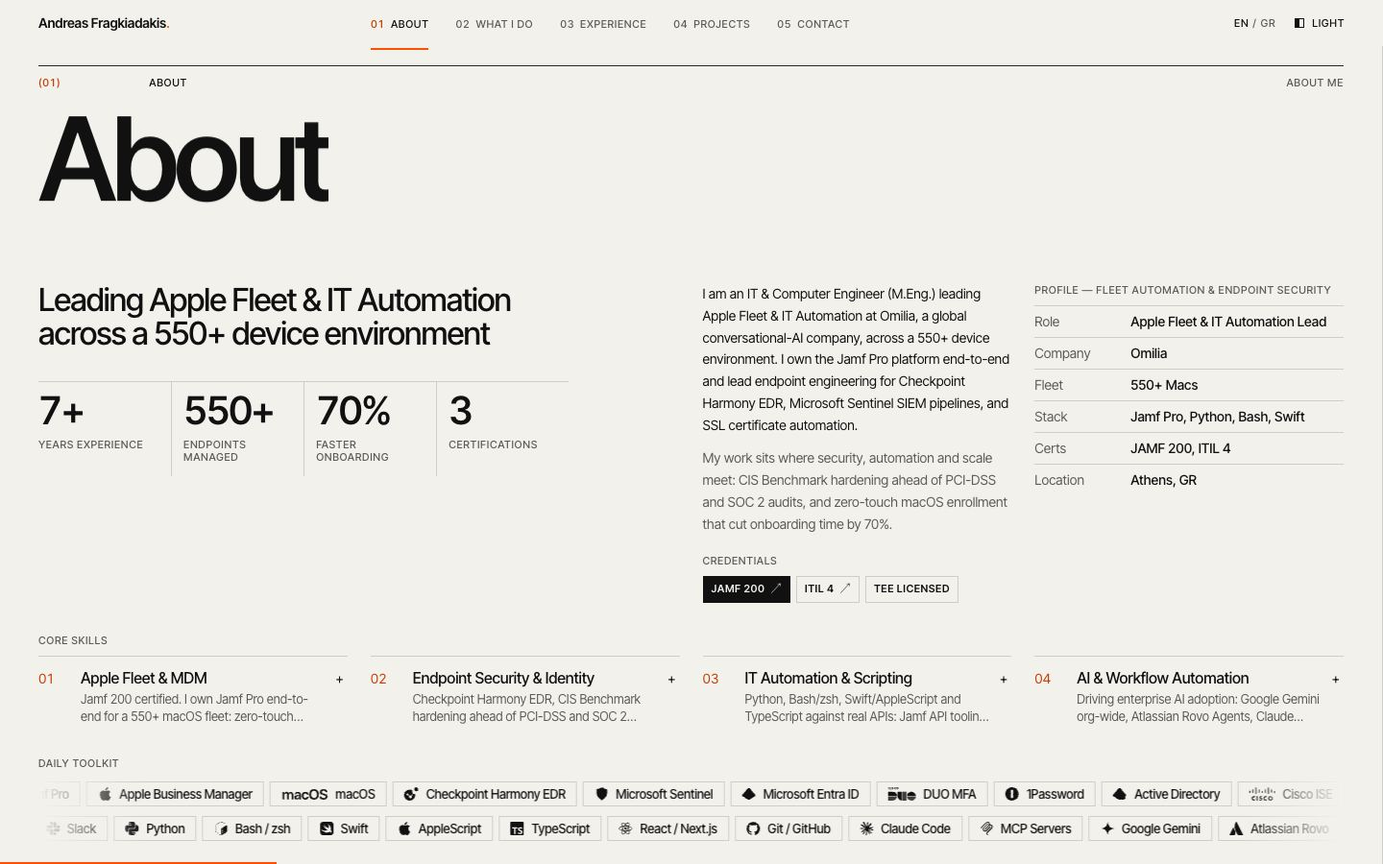
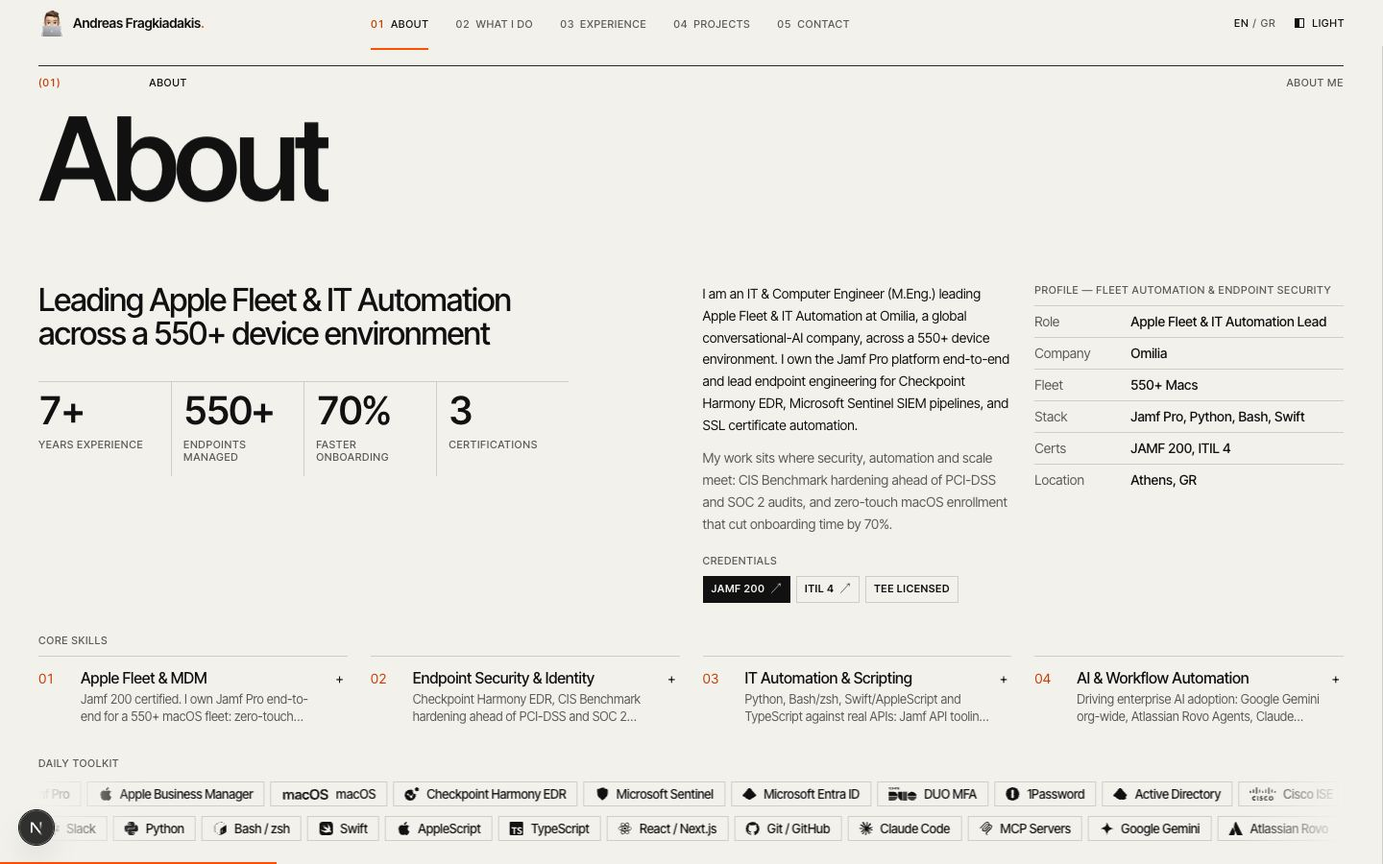
Swiss Editorial: TikTok Sans for Greek, memoji mark, Greek copy fixes
Inter Tight's Greek (hooked iota) collided at display tracking and read
softer than the Latin. A Greek-only TikTok Sans face (OFL, variable
opsz/wght, self-hosted via next/font/local, unicode-range U+0370-03FF)
now sits ahead of Inter Tight, so Greek letters use a straight
neo-grotesk while Latin, digits and punctuation stay Inter Tight.

- Nav wordmark leads with the memoji technologist as a byline mark
- Restore tonos on mixed-case Greek strings; About says 550 devices
- STYLE.md typography + Round 4 notes, CHANGELOG, refreshed previews

diff --git a/andreas-technology-v3/src/data/content.ts b/andreas-technology-v3/src/data/content.ts
@@ -819,12 +819,12 @@ export const content: Record<'en' | 'gr', Content> = {
             tagline: "Επικεφαλής Apple Fleet & IT Automation σε περιβάλλον 550+ συσκευών",
             readMore: "Διαβάστε περισσότερα",
             showLess: "Λιγότερα",
-            currentFocus: "Τρεχουσα Εστιαση",
+            currentFocus: "Τρέχουσα εστίαση",
             currentFocusDetail: "Fleet Automation & Endpoint Security",
-            statsLabels: ["Χρονια Εμπειριας", "Συσκευες υπο Διαχειριση", "Ταχυτερο Onboarding", "Πιστοποιησεις"],
-            credentialsLabel: "Πιστοποιησεις",
+            statsLabels: ["Χρόνια εμπειρίας", "Συσκευές υπό διαχείριση", "Ταχύτερο onboarding", "Πιστοποιήσεις"],
+            credentialsLabel: "Πιστοποιήσεις",
             description: [
-                "Είμαι Μηχανικός Πληροφορικής και Υπολογιστών (M.Eng.) και ηγούμαι του τομέα Apple Fleet & IT Automation στην Omilia, μια παγκόσμια εταιρεία conversational AI, σε περιβάλλον άνω των 400 συσκευών. Διαχειρίζομαι εξ ολοκλήρου την πλατφόρμα Jamf Pro και ηγούμαι του endpoint engineering για Checkpoint Harmony EDR, pipelines Microsoft Sentinel SIEM και αυτοματοποίηση πιστοποιητικών SSL.",
+                "Είμαι Μηχανικός Πληροφορικής και Υπολογιστών (M.Eng.) και ηγούμαι του τομέα Apple Fleet & IT Automation στην Omilia, μια παγκόσμια εταιρεία conversational AI, σε περιβάλλον άνω των 550 συσκευών. Διαχειρίζομαι εξ ολοκλήρου την πλατφόρμα Jamf Pro και ηγούμαι του endpoint engineering για Checkpoint Harmony EDR, pipelines Microsoft Sentinel SIEM και αυτοματοποίηση πιστοποιητικών SSL.",
                 "Η δουλειά μου βρίσκεται στο σημείο όπου συναντώνται η ασφάλεια, ο αυτοματισμός και η κλίμακα: θωράκιση κατά CIS Benchmarks ενόψει ελέγχων PCI-DSS και SOC 2, και zero-touch enrollment για macOS που μείωσε τον χρόνο onboarding κατά 70%.",
                 "Παράλληλα οδηγώ την υιοθέτηση AI σε εταιρικό επίπεδο — Google Gemini, Atlassian Rovo Agents και ένα AI pipeline διαλογής αιτημάτων που μείωσε τον μέσο χρόνο triage σε 350+ tickets ετησίως.",
                 "Jamf Certified Tech (Jamf 200) | Αδειούχος Μηχανικός Πληροφορικής (ΤΕΕ) | Πιστοποίηση ITIL 4 | Με έδρα την Αθήνα | Αγγλικά (C2), Ελληνικά (Μητρική), Γερμανικά (B2)"
@@ -844,32 +844,32 @@ export const content: Record<'en' | 'gr', Content> = {
                 "INFRASTRUCTURE AUTOMATION ENGINEER",
                 "AI AUTOMATION SPECIALIST"
             ],
-            viewWork: "Δειτε τη Δουλεια μου",
-            getInTouch: "Επικοινωνηστε μαζι μου",
+            viewWork: "Δείτε τη δουλειά μου",
+            getInTouch: "Επικοινωνήστε μαζί μου",
             scroll: "ΣΚΡΟΛΑΡΕΤΕ ΓΙΑ ΠΛΟΗΓΗΣΗ"
         },
 
         contact: {
             title: "ΕΠΙΚΟΙΝΩΝΙΑ",
             subtitle: "ΕΛΑΤΕ ΣΕ ΕΠΑΦΗ ΜΑΖΙ ΜΟΥ",
-            infoTitle: "Στοιχεια Επικοινωνιας",
-            socialTitle: "Βρειτε με στα social",
-            opportunitiesTitle: "Διαθεσιμος για νεες προκλησεις",
+            infoTitle: "Στοιχεία επικοινωνίας",
+            socialTitle: "Βρείτε με στα social",
+            opportunitiesTitle: "Διαθέσιμος για νέες προκλήσεις",
             opportunitiesDescription: "Freelance projects ή ενδιαφέρουσες συνεργασίες. Ας δημιουργήσουμε κάτι μοναδικό μαζί.",
-            sendMessage: "Αποστολη Μηνυματος",
-            downloadResume: "Ληψη Βιογραφικου",
+            sendMessage: "Αποστολή μηνύματος",
+            downloadResume: "Λήψη βιογραφικού",
             emailLabel: "Email",
-            locationLabel: "Τοποθεσια",
-            localTimeLabel: "Τοπικη ωρα",
-            copyEmail: "Αντιγραφη",
-            copied: "Αντιγραφηκε",
-            copyFailed: "Αποτυχια"
+            locationLabel: "Τοποθεσία",
+            localTimeLabel: "Τοπική ώρα",
+            copyEmail: "Αντιγραφή",
+            copied: "Αντιγράφηκε",
+            copyFailed: "Αποτυχία"
         },
 
         cursor: {
-            view: "Δειτε",
-            verify: "Ελεγχος",
-            open: "Ανοιγμα"
+            view: "Δείτε",
+            verify: "Έλεγχος",
+            open: "Άνοιγμα"
         },
 
         skillsTitle: "ΒΑΣΙΚΕΣ ΔΕΞΙΟΤΗΤΕΣ",
@@ -898,13 +898,13 @@ export const content: Record<'en' | 'gr', Content> = {
 
         servicesTitle: "ΥΠΗΡΕΣΙΕΣ",
         servicesSubtitle: "// ΕΞΕΙΔΙΚΕΥΣΗ & ΔΕΞΙΟΤΗΤΕΣ",
-        servicesCta: "Εχετε ενα συγκεκριμενο project στο μυαλο σας;",
-        servicesCtaButton: "Ας Μιλησουμε",
-        servicesLabels: { highlights: "Στην πραξη", toolkit: "Εργαλεια", details: "Λεπτομερειες", tools: "εργαλεια" },
+        servicesCta: "Έχετε ένα συγκεκριμένο project στο μυαλό σας;",
+        servicesCtaButton: "Ας μιλήσουμε",
+        servicesLabels: { highlights: "Στην πράξη", toolkit: "Εργαλεία", details: "Λεπτομέρειες", tools: "εργαλεία" },
         services: [
             {
                 icon: "fas fa-shield-halved",
-                title: "Ασφαλεια Τερματικων & Συμμορφωση",
+                title: "Ασφάλεια τερματικών & συμμόρφωση",
                 description: "Θωράκιση στόλου συσκευών απέναντι σε πραγματικές απειλές: εφαρμογή CIS Benchmarks, ανάπτυξη και μετάβαση EDR, διαχείριση κρυπτογράφησης δίσκων και ετοιμότητα για ελέγχους PCI-DSS και SOC 2.",
                 detail: "Ασφάλεια που αντέχει τόσο σε έλεγχο όσο και στην παραγωγή. Εφάρμοσα θωράκιση κατά CIS Benchmarks σε όλο τον στόλο πριν από ελέγχους PCI-DSS και SOC 2, ηγήθηκα της μετάβασης σε Checkpoint Harmony EDR και τροφοδοτώ το Microsoft Sentinel με telemetry τερματικών ώστε η ανίχνευση να έχει πραγματικό πλαίσιο.",
                 highlights: [
@@ -928,7 +928,7 @@ export const content: Record<'en' | 'gr', Content> = {
             },
             {
                 icon: "fas fa-gears",
-                title: "Αυτοματισμος IT & Scripting",
+                title: "Αυτοματισμός IT & Scripting",
                 description: "Μετατροπή χειροκίνητων εργασιών IT σε επαναλήψιμα συστήματα. Bash, Python και TypeScript πάνω σε πραγματικά APIs, με pipelines πιστοποιητικών και provisioning που εξαλείφουν την επαναλαμβανόμενη εργασία.",
                 detail: "Ό,τι γίνεται δύο φορές, γίνεται script. Γράφω Bash, Python, Swift και TypeScript πάνω σε πραγματικά APIs, από εργαλεία Jamf έως ένα κεντρικό pipeline που ανανεώνει πιστοποιητικά SSL για Cisco ISE, ESXi, Proxmox και HPE iLO χωρίς χειροκίνητα βήματα.",
                 highlights: [
@@ -964,7 +964,7 @@ export const content: Record<'en' | 'gr', Content> = {
             },
             {
                 icon: "fas fa-network-wired",
-                title: "Δικτυα & Υποδομες",
+                title: "Δίκτυα & υποδομές",
                 description: "Το επίπεδο πάνω στο οποίο στηρίζονται όλα — Cisco ISE, Active Directory, MFA και virtualization σε ESXi και Proxmox, με monitoring που εντοπίζει προβλήματα πριν τα αναφέρουν οι χρήστες.",
                 detail: "Η βάση πάνω στην οποία στηρίζονται όλα: έλεγχος πρόσβασης δικτύου με Cisco ISE, ταυτότητα σε Active Directory και Entra ID, και virtualization σε VMware ESXi και Proxmox — με MFA, πιστοποιητικά και monitoring σε τάξη γύρω τους.",
                 highlights: [
@@ -1126,28 +1126,28 @@ export const content: Record<'en' | 'gr', Content> = {
             subtitle: "ΕΠΙΛΕΓΜΕΝΑ ΕΡΓΑ",
             live: "Live",
             code: "Code",
-            githubCta: "Δειτε το πληρες Portfolio στο GitHub",
-            details: "Λεπτομερειες",
-            caseStudy: "Μελετη περιπτωσης",
-            roleLabel: "Ρολος",
-            highlightsLabel: "Βασικα Σημεια",
-            report: "Αναφορα",
-            publication: "Δημοσιευση",
-            close: "Κλεισιμο"
+            githubCta: "Δείτε το πλήρες portfolio στο GitHub",
+            details: "Λεπτομέρειες",
+            caseStudy: "Μελέτη περίπτωσης",
+            roleLabel: "Ρόλος",
+            highlightsLabel: "Βασικά σημεία",
+            report: "Αναφορά",
+            publication: "Δημοσίευση",
+            close: "Κλείσιμο"
         },
 
         cinematicEntry: {
             initializing: "> ΕΚΚΙΝΗΣΗ ΣΥΣΤΗΜΑΤΟΣ...",
             loading: "> ΦΟΡΤΩΣΗ ΑΡΧΕΙΩΝ...",
             ready: "> ΕΤΟΙΜΟ.",
-            enterSystem: "Εισοδος στο Συστημα",
-            skip: "Παραλειψη"
+            enterSystem: "Είσοδος στο σύστημα",
+            skip: "Παράλειψη"
         },
 
         projectsTitle: "PROJECTS",
         projects: [
             {
-                name: "Plano Plus - Επιγραφες & Οπτικη Ταυτοτητα",
+                name: "Plano Plus - Επιγραφές & Οπτική Ταυτότητα",
                 year: 2026,
                 tags: ["Next.js", "React", "TypeScript", "Tailwind CSS", "Framer Motion", "Resend"],
                 description: "Ιστοσελίδα στούντιο επιγραφών και οπτικής επικοινωνίας με Next.js App Router. Χαρακτηριστικά: light/dark theme, parallax effects, smooth scrolling, φόρμα επικοινωνίας με email integration, και σύγχρονο UI/UX. Εξυπηρετεί πελάτες σε όλη την Κρήτη με επαγγελματικές λύσεις επιγραφών και branding.",
@@ -1180,7 +1180,7 @@ export const content: Record<'en' | 'gr', Content> = {
                 imageFit: "cover"
             },
             {
-                name: "Προσωπικη Ιστοσελιδα Portfolio",
+                name: "Προσωπική Ιστοσελίδα Portfolio",
                 year: 2026,
                 tags: ["Next.js", "React", "TypeScript", "Framer Motion", "Canvas"],
                 description: "Σχεδίαση και υλοποίηση modern portfolio με horizontal scroll εμπειρία, διαδραστικό Canvas glitch effect, animations και υποστήριξη Dark/Light mode σε δύο γλώσσες.",
@@ -1247,7 +1247,7 @@ export const content: Record<'en' | 'gr', Content> = {
                 imageFit: "cover"
             },
             {
-                name: "HappyFox 🦊 - Εφαρμογη Ψυχικης Υγειας",
+                name: "HappyFox 🦊 - Εφαρμογή Ψυχικής Υγείας",
                 year: 2023,
                 tags: ["UI/UX Design", "Figma", "Team Project", "SRH Heidelberg"],
                 description: "Σχεδιασμός UI/UX για εφαρμογή ψυχικής υγείας με στόχο την προώθηση της συναισθηματικής ευεξίας. Υλοποιήθηκε στα πλαίσια μεταπτυχιακού μαθήματος.",
@@ -1264,7 +1264,7 @@ export const content: Record<'en' | 'gr', Content> = {
                 imageFit: "cover"
             },
             {
-                name: "Ιστοσελιδα Κεντρων Ξενων Γλωσσων Schiller",
+                name: "Ιστοσελίδα Κέντρων Ξένων Γλωσσών Schiller",
                 year: 2026,
                 tags: ["Wix", "Wix Studio", "Web Development", "Educational"],
                 description: "Ανάπτυξη ιστοσελίδας για τα εκπαιδευτικά κέντρα Schiller στο Ρέθυμνο. Παρουσίαση προγραμμάτων σπουδών Αγγλικών, Γερμανικών και Εκπαιδευτικής Ρομποτικής.",
@@ -1296,7 +1296,7 @@ export const content: Record<'en' | 'gr', Content> = {
                 imageFit: "cover"
             },
             {
-                name: "Ερευνα: LLMs & Ανθρωπινη Γνωση",
+                name: "Έρευνα: LLMs & Ανθρώπινη Γνώση",
                 year: 2024,
                 tags: ["Research", "Cognitive Science", "LLMs", "GPT-3", "Python"],
                 description: "Συγκριτική μελέτη απόδοσης GPT-3 και ανθρώπων στο 'False Belief Task'. Η έρευνα δημοσιεύθηκε στο περιοδικό Cognitive Science.",

diff --git a/andreas-technology-v3/src/app/layout.tsx b/andreas-technology-v3/src/app/layout.tsx
@@ -1,6 +1,7 @@
 
 import type { Metadata } from 'next'
 import { Inter_Tight } from 'next/font/google'
+import localFont from 'next/font/local'
 import { MotionConfig } from 'motion/react'
 import './globals.css'
 import { LanguageProvider } from '@/contexts/LanguageContext'
@@ -11,9 +12,31 @@ import { SpeedInsights } from '@vercel/speed-insights/next'
 import { SOCIAL_URLS, content } from '@/data/content'
 
 const interTight = Inter_Tight({
-    subsets: ['latin', 'greek'],
+    subsets: ['latin'],
     display: 'swap',
     variable: '--font-inter-tight',
+})
+
+/*
+ * Greek companion to Inter Tight. Inter Tight's own Greek has a hooked iota that
+ * collides with its neighbours at display tracking (κια, τικ) and reads softer than
+ * the Latin. TikTok Sans Greek (OFL, variable opsz 12–36 · wght 300–900) is a straight
+ * neo-grotesk that matches Inter Tight's colour and x-height, so this face covers
+ * only the Greek block and every Latin glyph, digit and punctuation mark still comes
+ * from Inter Tight. No size-adjusted fallback: a local fallback declared here would
+ * sit in front of Inter Tight in the stack and catch the Latin.
+ */
+const tiktokGreek = localFont({
+    src: './fonts/TikTokSans-Greek.woff2',
+    weight: '300 900',
+    style: 'normal',
+    display: 'swap',
+    variable: '--font-greek',
+    adjustFontFallback: false,
+    fallback: [],
+    declarations: [
+        { prop: 'unicode-range', value: 'U+0370-0377, U+037A-037F, U+0384-038A, U+038C, U+038E-03A1, U+03A3-03FF' },
+    ],
 })
 
 const SITE_URL = 'https://andreas.technology'
@@ -74,7 +97,7 @@ export default function RootLayout({
     children: React.ReactNode
 }) {
     return (
-        <html lang="en" className={interTight.variable} suppressHydrationWarning>
+        <html lang="en" className={`${interTight.variable} ${tiktokGreek.variable}`} suppressHydrationWarning>
             <head>
                 <meta name="theme-color" content="#0E0E0E" media="(prefers-color-scheme: dark)" />
                 <meta name="theme-color" content="#F2F1EC" media="(prefers-color-scheme: light)" />

diff --git a/andreas-technology-v3/src/components/dom/Navigation.tsx b/andreas-technology-v3/src/components/dom/Navigation.tsx
@@ -4,6 +4,7 @@ import { useLanguage } from '@/contexts/LanguageContext'
 import { useContent } from '@/hooks/useContent'
 import { useState, useEffect } from 'react'
 import { motion } from 'motion/react'
+import Image from 'next/image'
 import { scrollToSection as smoothScrollToSection } from '@/utils/smooth-scroll'
 import { SECTION_IDS, SECTION_STEPS } from '@/data/sections'
 import ThemeToggle from '@/components/ui/ThemeToggle'
@@ -86,10 +87,22 @@ export default function Navigation() {
                     type="button"
                     onClick={() => scrollToSection('hero', 0)}
                     aria-label={`${t.editorial.firstName} ${t.editorial.lastName} — ${t.nav.home}`}
-                    className="md:col-span-3 justify-self-start text-sm font-semibold tracking-[-0.01em] hover:text-[var(--accent-ink)] transition-colors"
+                    className="md:col-span-3 justify-self-start inline-flex items-center gap-2 text-sm font-semibold tracking-[-0.01em] hover:text-[var(--accent-ink)] transition-colors"
                 >
-                    {t.editorial.firstName} {t.editorial.lastName}
+                    {/* The memoji is the mark: cropped to the head and laptop, like a byline portrait. */}
+                    <span className="relative block size-7 shrink-0 overflow-hidden" aria-hidden="true">
+                        <Image
+                            src="/favicons/android-chrome-512x512.png"
+                            alt="Andreas Fragkiadakis"
+                            width={64}
+                            height={64}
+                            className="absolute inset-0 size-full object-cover object-bottom scale-[1.15] origin-bottom"
+                        />
+                    </span>
+                    <span>
+                        {t.editorial.firstName} {t.editorial.lastName}
                     <span className="text-[var(--accent)]" aria-hidden="true">.</span>
+                    </span>
                 </button>
 
                 {/* Desktop index */}

diff --git a/andreas-technology-v3/src/app/globals.css b/andreas-technology-v3/src/app/globals.css
@@ -22,7 +22,9 @@
   --accent-ink: #C23A00;
   --row-hover: rgba(17, 17, 17, 0.045);
 
-  --font-display: var(--font-inter-tight), "Helvetica Neue", Helvetica, Arial, sans-serif;
+  /* Greek-only face first (unicode-range), so Greek letters take TikTok Sans and
+     everything else falls through to Inter Tight. See layout.tsx. */
+  --font-display: var(--font-greek), var(--font-inter-tight), "Helvetica Neue", Helvetica, Arial, sans-serif;
 
   /*
    * Height of the fixed desktop navigation. Panels reserve this at the top so

diff --git a/STYLE.md b/STYLE.md
@@ -4,7 +4,7 @@
 
 ## Concept
 
-The portfolio is set like a printed index. It uses warm paper and near-black ink, one grotesk (Inter Tight), a strict 12-column grid, and 1px rules in place of cards. The name is set very large at the bottom left of the hero. Every other section is a numbered spread: "(01) About", "(02) What I do", and so on. Experience and projects read as index tables. International orange is the only colour, used for index numbers, active states and the full stop after the name.
+The portfolio is set like a printed index. It uses warm paper and near-black ink, one grotesk (Inter Tight, with TikTok Sans for Greek letters only), a strict 12-column grid, and 1px rules in place of cards. The name is set very large at the bottom left of the hero. Every other section is a numbered spread: "(01) About", "(02) What I do", and so on. Experience and projects read as index tables. International orange is the only colour, used for index numbers, active states and the full stop after the name.
 
 ## Inspirations
 
@@ -46,7 +46,11 @@ Pure `#FF4F00` on paper is only about 2.9 : 1, which fails even the large-text t
 
 ### Type
 
-- **Family:** Inter Tight (loaded with `next/font/google`, subsets `latin` and `greek`, variable weight), exposed as `--font-inter-tight` and set as Tailwind's `font-sans`. There is no monospace anywhere; every former `font-mono` label is now a sans meta label.
+- **Family:** Inter Tight for Latin (loaded with `next/font/google`, subset `latin`, variable weight), exposed as `--font-inter-tight`. There is no monospace anywhere; every former `font-mono` label is now a sans meta label.
+- **Greek:** TikTok Sans Greek (OFL; variable `opsz` 12–36 and `wght` 300–900; 18 KB). It is self-hosted as `src/app/fonts/TikTokSans-Greek.woff2` through `next/font/local`, with its licence alongside, and exposed as `--font-greek`. The face declares a Greek-only `unicode-range` (U+0370–03FF) and sits first in the stack: `--font-display: var(--font-greek), var(--font-inter-tight), …`. Greek letters therefore come from TikTok Sans, while every Latin letter, digit and punctuation mark (including the orange full stop) still comes from Inter Tight. `adjustFontFallback: false` is deliberate: a size-adjusted local fallback for the Greek face would sit in front of Inter Tight and catch the Latin. Optical size is automatic, so the name and titles use the display cut (opsz 36) and body text the text cut.
+  - *Why:* Inter Tight's own Greek has a hooked iota. At display tracking (−0.045 to −0.055em) it collides with the next letter ("κια" in Φραγκιαδάκης, "τικ" in Σχετικά), and its lowercase reads softer and lighter than the Latin. TikTok Sans Greek is a straight neo-grotesk: a plain-stem iota, Helvetica-like α/ρ/ς, a steep tonos, and colour and x-height that match Inter Tight at the same weight. Mixed lines such as "Επικεφαλής Apple Fleet & IT Automation" read as one voice.
+  - *Compared* (`style-preview/states/greek-font-finalists.jpg`): Inter Tight Greek (current), Inter Display, Roboto Flex, Noto Sans Display, Commissioner, Geologica, Manrope, Sofia Sans, IBM Plex Sans, TikTok Sans, Google Sans, Ubuntu Sans, Open Sans, Roboto, Arimo, GFS Neohellenic and Advent Pro. Wix Madefor has no Greek subset on Google Fonts. The runners-up were IBM Plex Sans (crisp, but its spurred α and angled κ are more "technical" than Swiss) and Roboto (neutral, but narrower and more mechanical). Humanist faces (Open Sans, Ubuntu, Noto, Commissioner, Google Sans, GFS Neohellenic) broke the neo-grotesk voice.
+  - *Uppercase:* `.meta` labels and the nav use `text-transform: uppercase`. `LanguageContext` sets `<html lang="el">` in Greek, so the browser drops the tonos (ΣΧΕΤΙΚΑ, not ΣΧΕΤΙΚΆ). This was verified with the EN/GR toggle in both directions.
 - **Display** (`.display`): weight 560, tracking −0.045em (−0.055em on the hero name), line-height 0.86–0.92. Always solid and mixed case. The outlined headings are gone.
 - **Meta** (`.meta`): 11px, uppercase, +0.06em, weight 500, muted colour.
 - **Numerals:** `.tabular` / `.index` switch on `tnum`, so index numbers, dates and years line up down the columns.
@@ -100,6 +104,12 @@ Pure `#FF4F00` on paper is only about 2.9 : 1, which fails even the large-text t
 - short meta labels (Role / Based in / …)
 - Light/Dark labels
 
+## Round 4 — Greek type and the memoji mark
+
+- **Greek font:** Greek now uses TikTok Sans through a Greek-only face in front of Inter Tight (see *Type*). Diagnosis: Chrome's `CSS.getPlatformFontsForNode` showed that Greek already came from the Inter Tight web font, not a system fallback, so the mismatch was the design itself. The hooked iota collided at display tracking, and the lowercase read softer than the Latin. After the change, every Greek glyph reports the TikTok Sans face, Latin, digits and punctuation report Inter Tight, and Inter Tight's Greek file is no longer downloaded. The English rendering is unchanged.
+- **Greek copy:** 40+ mixed-case Greek strings had lost their accents, because the originals were written for all-caps display (for example "Δειτε τη Δουλεια μου", "Αποστολη Μηνυματος", "Δικτυα & Υποδομες", and the project titles). They now carry proper tonos, and phrases use Greek sentence case. Uppercase labels still drop the accents through `lang="el"`. The About paragraph now says "άνω των 550 συσκευών" (it said 400).
+- **Mark:** No "AF" monogram existed in this branch. The nav wordmark now opens with the memoji technologist (`/favicons/android-chrome-512x512.png`, via `next/image`), cropped to a 28px byline portrait with the laptop resting on the square's bottom edge. It reads like an author photo on a masthead and leaves the name and the orange full stop as the main mark. The OG image is type-only and is unchanged.
+
 ## Trade-offs
 
 - **Tables vs. rich cards:** Experience rows no longer show tasks inline. They open in a dialog instead, which keeps both tables on one 1440×900 screen. Education periods are shortened to numeric dates in the table; the full wording is still in the dialog and in the aria label.
@@ -148,7 +158,7 @@ Pure `#FF4F00` on paper is only about 2.9 : 1, which fails even the large-text t
 | Projects row hover + preview | Career dialog (dark) |
 | --- | --- |
 | ![](style-preview/states/projects-row-hover-light.jpg) | ![](style-preview/states/career-dialog-dark.jpg) |
-| **Greek hero (fitted surname)** | **Keyboard focus** |
+| **Greek hero (TikTok Sans Greek, fitted surname)** | **Keyboard focus** |
 | ![](style-preview/states/greek-hero-dark.jpg) | ![](style-preview/states/keyboard-focus-light.jpg) |
 | **First-visit intro** | **OG image** |
 | ![](style-preview/states/intro-light.jpg) | ![](style-preview/states/og-image.png) |
@@ -156,3 +166,7 @@ Pure `#FF4F00` on paper is only about 2.9 : 1, which fails even the large-text t
 | Mobile menu | Greek mobile hero |
 | --- | --- |
 | ![](style-preview/states/mobile-menu-light.jpg) | ![](style-preview/states/greek-mobile-hero-dark.jpg) |
+
+| Greek font finalists (Inter Tight Latin with each Greek candidate) |
+| --- |
+| ![](style-preview/states/greek-font-finalists.jpg) |

diff --git a/andreas-technology-v3/CHANGELOG.md b/andreas-technology-v3/CHANGELOG.md
@@ -5,6 +5,8 @@ The format is based on [Common Changelog](https://common-changelog.org/), and th
 ## [Unreleased]
 
 ### Added
+- Greek type: TikTok Sans Greek (OFL, variable opsz/wght, self-hosted via `next/font/local`) is a Greek-only `unicode-range` face placed ahead of Inter Tight, so Greek letters use a straight neo-grotesk that matches Inter Tight's colour and x-height while all Latin, digits and punctuation stay in Inter Tight. It fixes the hooked Inter Greek iota that collided at display tracking (κια, τικ)
+- Nav wordmark leads with the memoji technologist as a 28px byline mark
 - `ToolTile`: uniform square tool tile (accent mark on a neutral tile); wide wordmarks fit the same footprint. Used for the structured 2–3 column toolkit grid (tile + name) in the service dialog
 - `ProjectImage`: project screenshots default to `contain` inside the frame with a blurred copy of the same image as fill (one download), so nothing is ever cut off; `Project.imageFit: 'cover'` and `imagePosition` opt specific images into an art-directed crop
 - What I Do: every card opens a detail dialog (whole card + always-visible plus control that rotates on hover) with a short explanation, three factual "In practice" points and a curated toolkit of official logos; cards preview their toolkit logos in the footer row. EN/GR
@@ -56,6 +58,9 @@ The format is based on [Common Changelog](https://common-changelog.org/), and th
 - Perf: stat counters animate via `animate()` writing to the DOM instead of 60 fps React state updates; honour reduced motion and render final values server-side
 
 ### Fixed
+- Greek copy: restored the missing accents on 40+ mixed-case strings written for the old all-caps display (CTAs, contact labels, service and project titles, dialog labels); uppercase labels still drop them via `lang="el"`
+- Greek About paragraph: "άνω των 550 συσκευών" (was 400)
+- Inter Tight now preloads only its `latin` subset; its Greek file is no longer downloaded
 - Project images in folders whose names contained `&`, spaces or parentheses (Raspberry Pi, LLM research, Schiller, Friendly Wheelchair) were rejected by the Next.js image optimizer with 400 "isn't a valid image"; folders renamed to kebab-case and paths updated. Email-signature and QR asset folders left untouched because they may be linked from outside the site
 - GSC: `X-Robots-Tag` and static `<meta name="robots">` for thesis presentation; `robots.txt` disallows `/opengraph-image`; sitemap lists only the homepage; root `/favicon.ico` for stable icon URL (thesis HTML restored under `public/`)
 - Mobile: fix horizontal page scroll by using `overflow-x-clip` on Experience and Projects sections instead of `overflow-x: hidden` on html/body (which killed momentum scrolling on mobile browsers)
